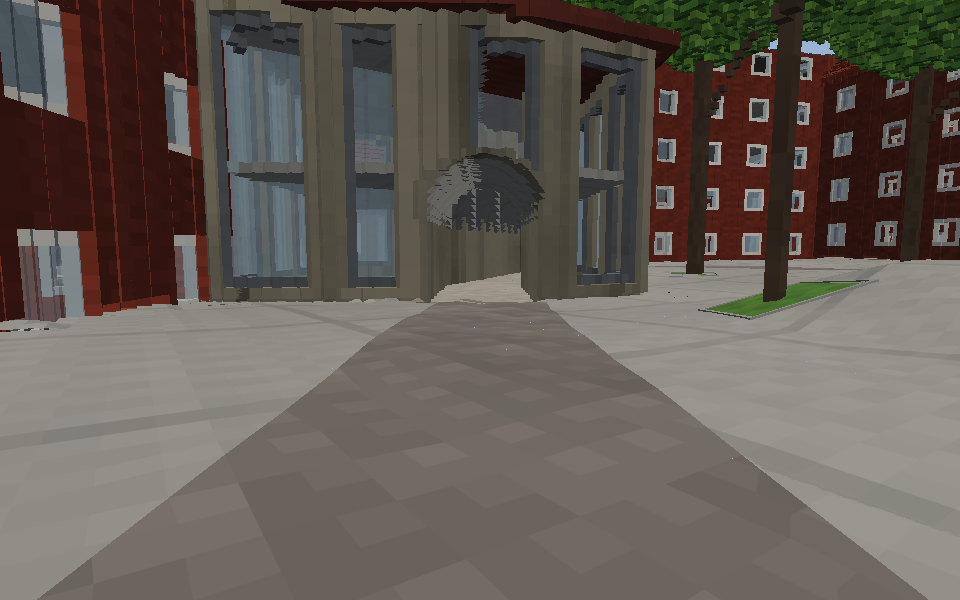
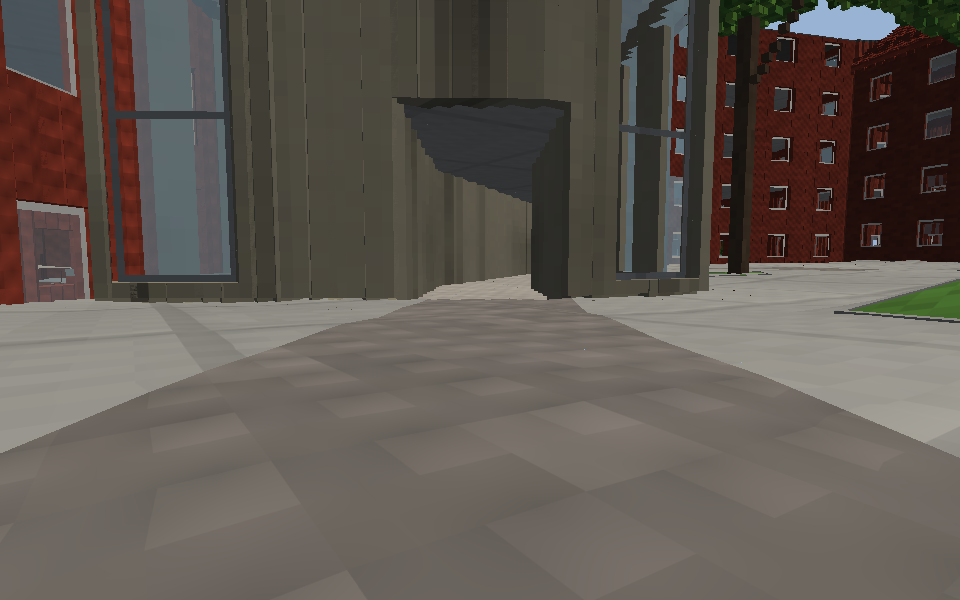
Bögen: in der Wandflucht, innen wie außen glatt; schräge Durchfahrten mit Sturz (Generator 27)
- Kein Bogenschnitt, wo die Säule einen Schnitt im Grundriss hat (die
  Voxel standen als Zähne aus leicht gedrehten Wänden); dort gestuft
- Bogenschnitt in beiden Wandlagen (innen war er nur gestuft)
- Durchfahrten schräg zum Raster: gerader Sturz in voller Höhe statt Kamm
- Voxelizer.PlanFacade: keine Fenster und Türen, wo eine Durchfahrt
  durch die Wand geht (Voxel und Netze)

Claude-Session: https://claude.ai/code/session_01Sz1bBYhg2rSfVgnCNfqZBp

diff --git a/ROADMAP.md b/ROADMAP.md
@@ -44,6 +44,7 @@ Eine Kachelregion (z. B. Bochum-Innenstadt, 2 × 2 km) wird von den Rohdaten üb
   - [x] Haustüren mit Rundbogen (Stich 35 cm) und Oberlicht aus Glas; Wände zwei Voxel dick mit Laibung
   - [x] Dachziegel in Pixel-Art mit Relief (Bumpmap des Atlas: Ziegelreihen, Mauer- und Pflasterfugen) - `docs/images/viewer-dachziegel.png`
   - [ ] Türen und Torbögen als Fertigteile im Baumodus, Klinken; Traufzähne
+  - [ ] Bögen in schrägen Wänden und schrägen Durchfahrten glatt: heute ist der Bogen dort gestuft bzw. ein gerader Sturz, weil ein Voxel nur eine Form trägt (Schnitt im Grundriss oder in der Ansicht) - braucht eine Form mit beidem oder eingehängte Bogenstücke
 - [x] Baumscheiben: einzelne Bäume (Plätze, Fußgängerzonen) in einem Quadrat aus Gras (1,4 m), an der nächsten Straße ausgerichtet, mit schmalen Kantensteinen (6 cm); zu nahe Bäume rücken beim Laden von der Fahrbahn weg (Raser.Props.Settle)
 - [x] Grünstreifen (Raser.Strips): Baumreihen an Straßen werden Beete zwischen Fahrbahn und Gehweg - zur Straße direkt am Bordstein, sonst schmale Kantensteine, Erde mit niedrigen Sträuchern (Voxel, zum Teil mit Blüten); der Gehweg liegt dahinter - `docs/images/viewer-gruenstreifen.png`
 - [x] Bordstein oben als Band von 12 cm; Pflasterrinne (30 cm) vor dem Bordstein bei etwa 4 von 10 Wohn- und Nebenstraßen; eckige Gullis etwa alle 30 m je Seite (in der Rinne, sonst im Asphalt am Bordstein)
